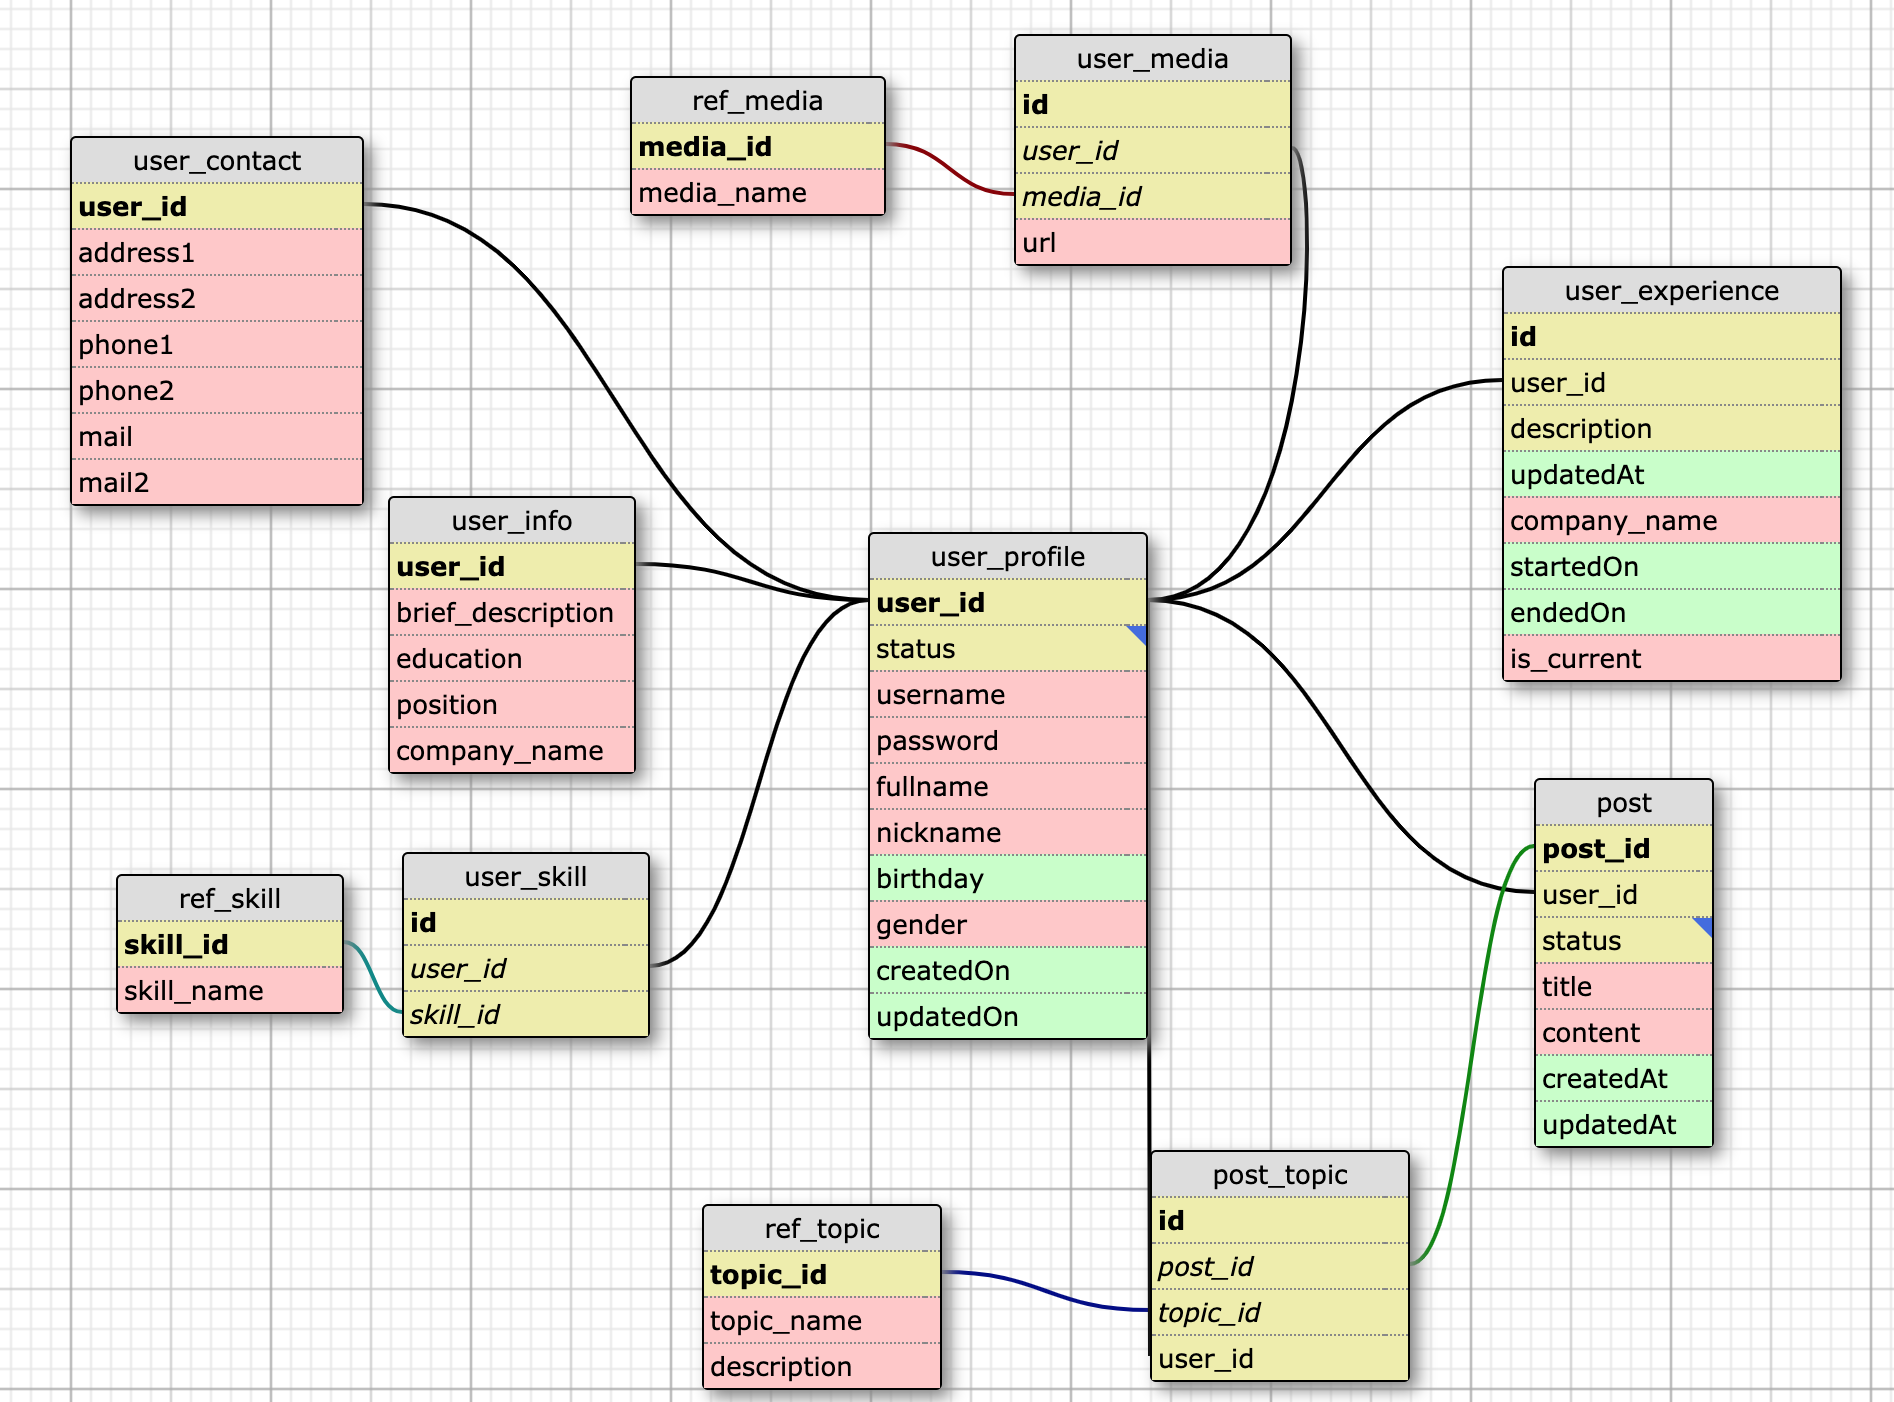
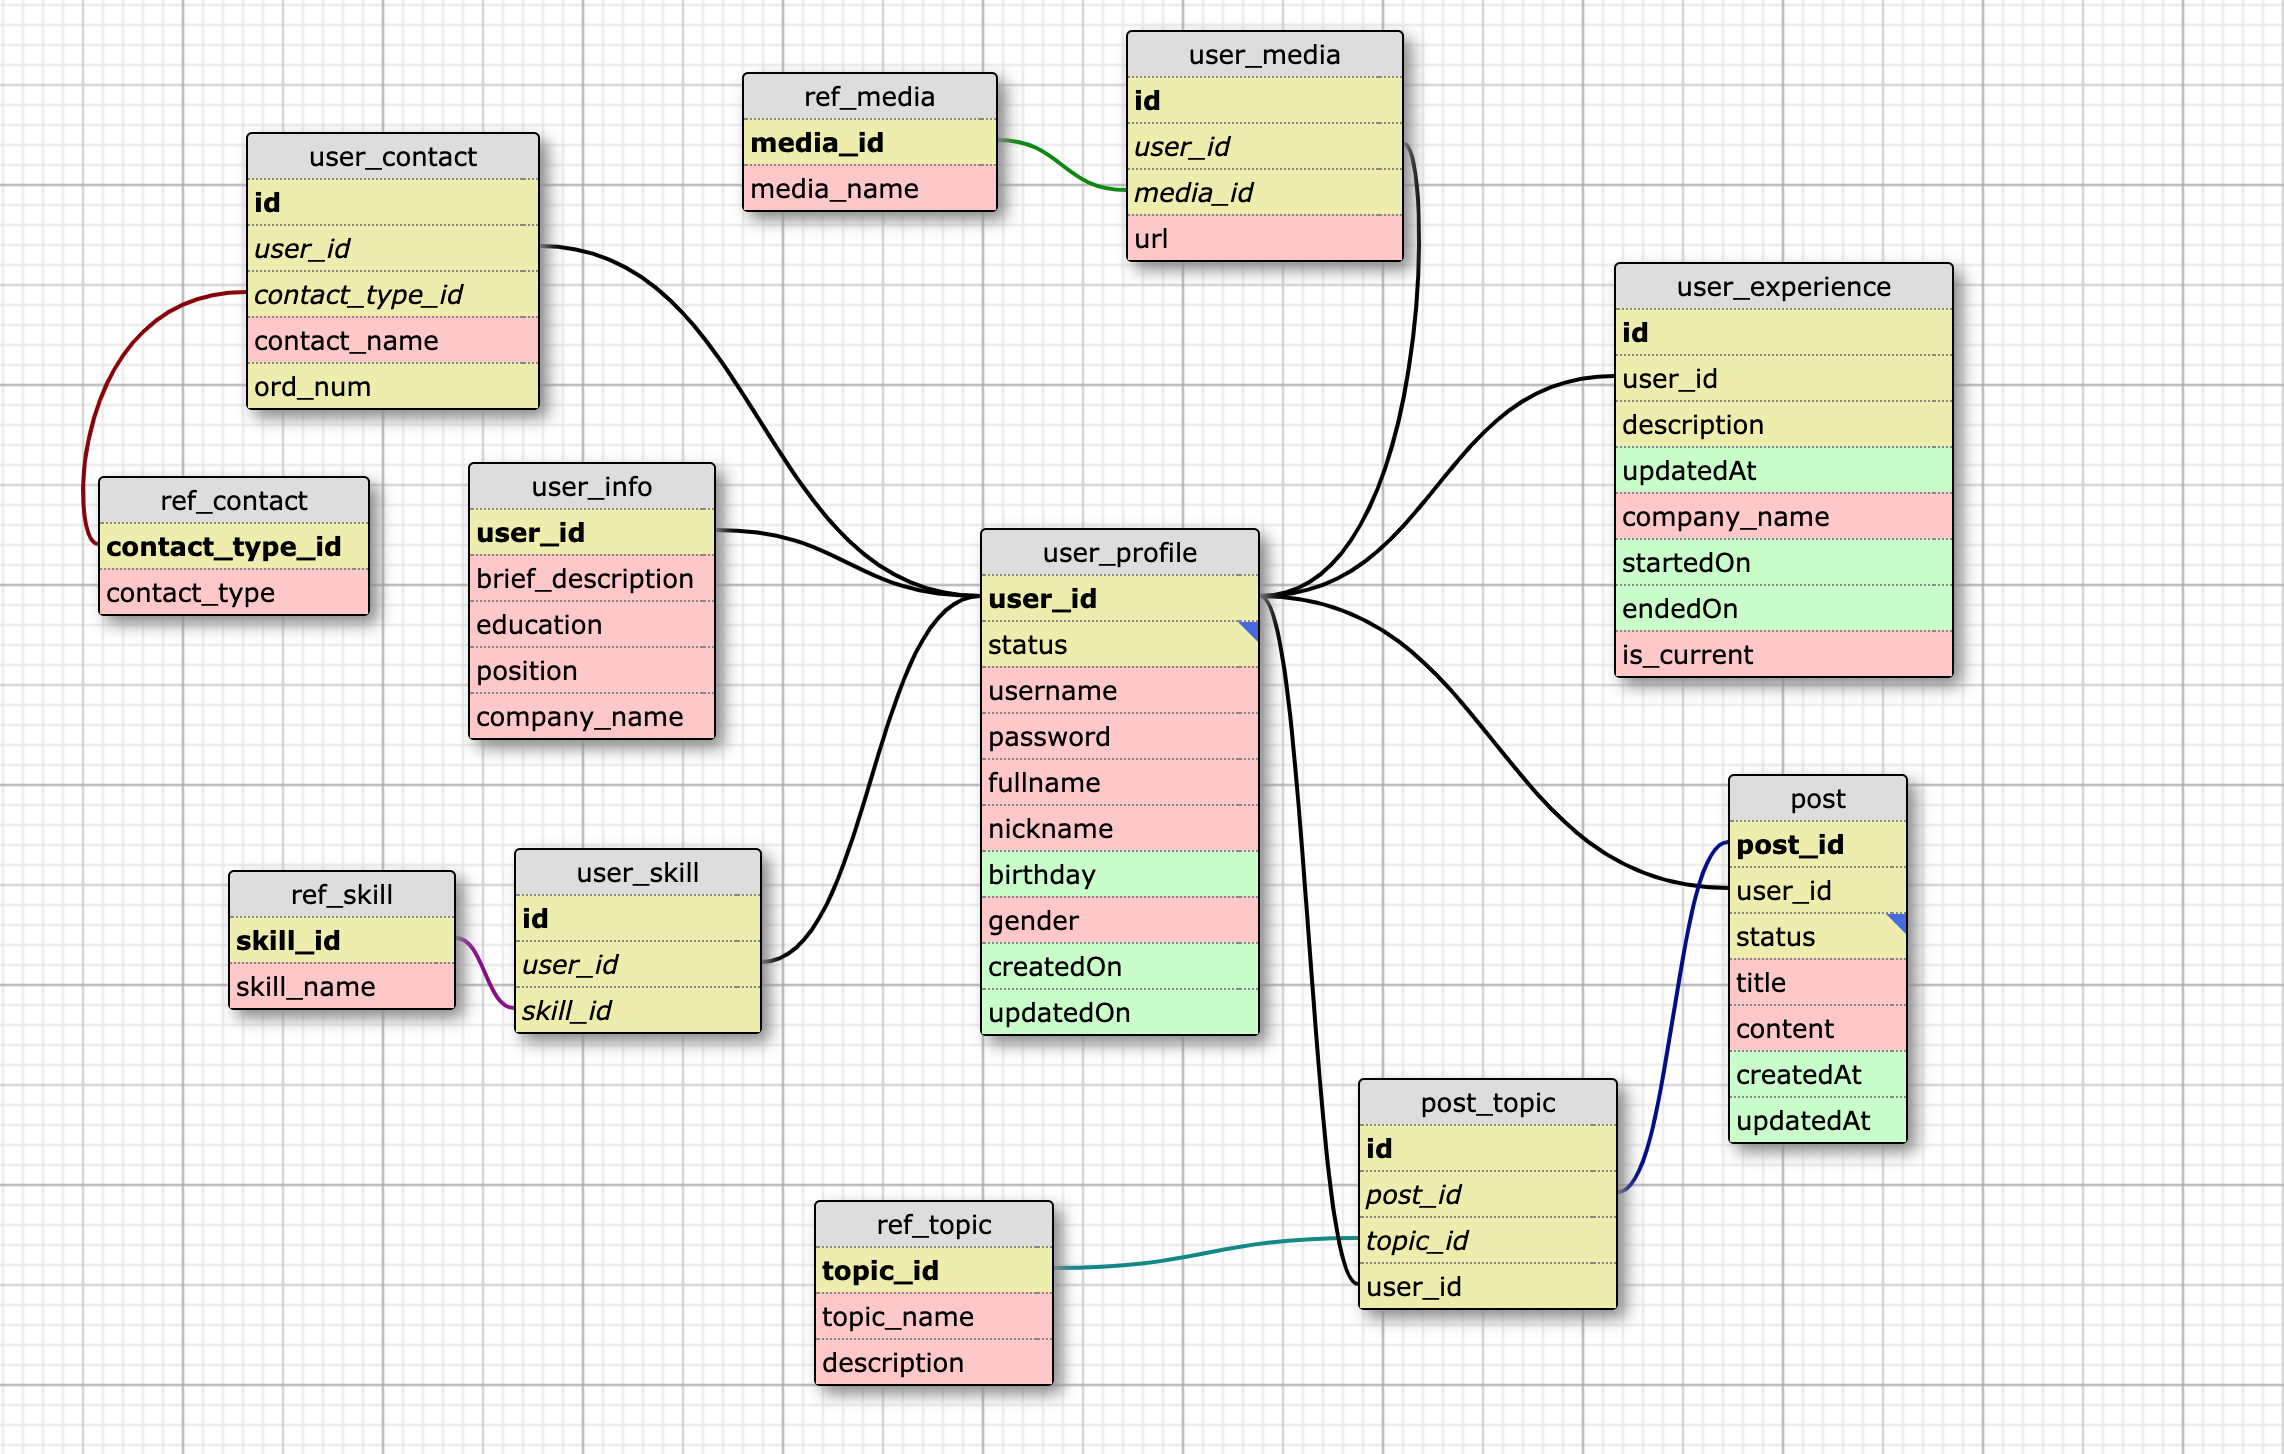
[2019-08-25 16:03] Vinhs-Mac.local vinhpham: add meta info api

diff --git a/api/models/meta.py b/api/models/meta.py
@@ -1,4 +1,6 @@
-from api.models import BaseModel, BaseSchema, apply_schema
+from sqlalchemy import orm, Table, Column, Integer, ForeignKey, String
+
+from api.models import BaseModel, BaseSchema, apply_schema, getTable
 
 
 @apply_schema('RefContactSchema')
@@ -14,7 +16,7 @@ class RefContactSchema(BaseSchema):
 
 @apply_schema('RefMediaSchema')
 class RefMedia(BaseModel):
-    __tablename__ = 'ref_meta'
+    __tablename__ = 'ref_media'
 
 
 class RefMediaSchema(BaseSchema):
@@ -43,3 +45,15 @@ class RefTopicSchema(BaseSchema):
     class Meta:
         model = RefTopic
         fields = ['topic_id', 'topic_name', 'description']
+
+
+@apply_schema('ViewAllRefTableSchema')
+class ViewAllRefTable(BaseModel):
+    columns = [Column('table_name', String(64), primary_key=True), ]
+    __table__ = getTable('v_all_ref_table', columns)
+
+
+class ViewAllRefTableSchema(BaseSchema):
+    class Meta:
+        model = ViewAllRefTable
+        fields = ['table_name', 'table_data']

diff --git a/api/resources/user.py b/api/resources/user.py
@@ -1,28 +1,13 @@
-from functools import wraps
-from flask import Blueprint, abort
-from flask_restful import Resource
-from sqlalchemy.orm import exc as orm_exc
+from flask import Blueprint
 from marshmallow import pprint
-import traceback
 
+from api.utils import catch_exception
 from api.resources import LIMIT_ROWS
 from api.database import get_session
 from api.models.user import ViewUserContact, UserInfoAll
 
+
 user_bp = Blueprint('user', __name__, url_prefix='/user')
-
-
-def catch_exception(func):
-    @wraps(func)
-    def wrapper(*args, **kwargs):
-        try:
-            return func(*args, **kwargs)
-        except orm_exc.NoResultFound:
-            abort(404)
-        except Exception:
-            traceback.print_exc()
-
-    return wrapper
 
 
 @user_bp.route('/', strict_slashes=False)

diff --git a/api/resources/meta.py b/api/resources/meta.py
@@ -1,0 +1,20 @@
+from flask import Blueprint
+from marshmallow import pprint
+
+from api.utils import catch_exception
+from api.resources import LIMIT_ROWS
+from api.database import get_session
+from api.models.meta import ViewAllRefTable
+
+
+meta_bp = Blueprint('meta', __name__, url_prefix='/meta')
+
+
+@meta_bp.route('/', strict_slashes=False)
+@catch_exception
+@get_session
+def get_all_ref_table(session):
+    all_ref_tables = session.query(ViewAllRefTable).all()
+    session.commit()
+
+    return ViewAllRefTable.jsonify(all_ref_tables, many=True)

diff --git a/api/resources/post.py b/api/resources/post.py
@@ -1,6 +1,9 @@
-from flask_restful import Resource
+from flask import Blueprint
+from marshmallow import pprint
 
+from api.utils import catch_exception
+from api.resources import LIMIT_ROWS
+from api.database import get_session
+from api.models.user import ViewUserContact, UserInfoAll
 
-class PostResource(Resource):
-    def get(self):
-        return {'post': 'this is a post'}
+post_bp = Blueprint('post', __name__, url_prefix='/post')

diff --git a/api/utils/__init__.py b/api/utils/__init__.py
@@ -1,0 +1,17 @@
+from sqlalchemy.orm import exc as orm_exc
+from flask import abort
+from functools import wraps
+import traceback
+
+
+def catch_exception(func):
+    @wraps(func)
+    def wrapper(*args, **kwargs):
+        try:
+            return func(*args, **kwargs)
+        except orm_exc.NoResultFound:
+            abort(404)
+        except Exception:
+            traceback.print_exc()
+
+    return wrapper

diff --git a/api/__init__.py b/api/__init__.py
@@ -13,10 +13,11 @@ def create_app():
         db.init_app(app)
         ma.init_app(app)
 
-        from api.resources import api
+        from api.resources import api, init_blueprint
         api.init_app(app)
-
-        from api.resources.user import user_bp
-        app.register_blueprint(user_bp)
+        init_blueprint(app)
 
     return app
+
+
+app = create_app()

diff --git a/api/resources/__init__.py b/api/resources/__init__.py
@@ -1,5 +1,11 @@
 from flask_restful import Api
 
-
 api = Api()
 LIMIT_ROWS = 10
+
+
+def init_blueprint(app):
+    from api.resources import post, user, meta
+    app.register_blueprint(user.user_bp)
+    app.register_blueprint(post.post_bp)
+    app.register_blueprint(meta.meta_bp)

diff --git a/api/__main__.py b/api/__main__.py
@@ -1,5 +1,5 @@
-from api import create_app
+from api import app
+
 
 if __name__ == '__main__':
-    app = create_app()
     app.run()
